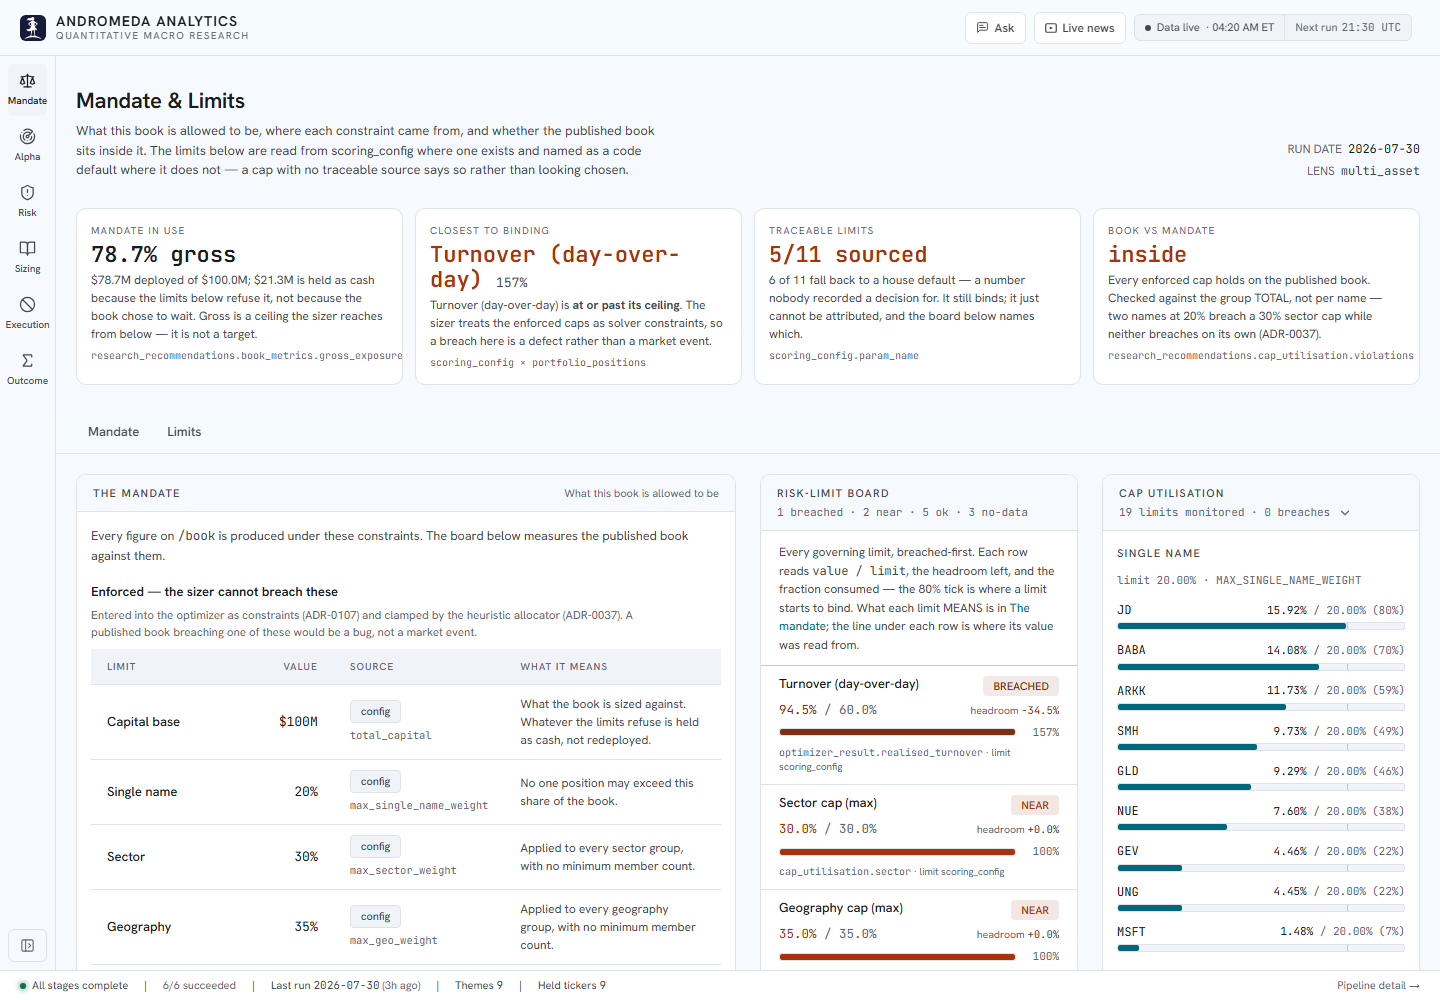
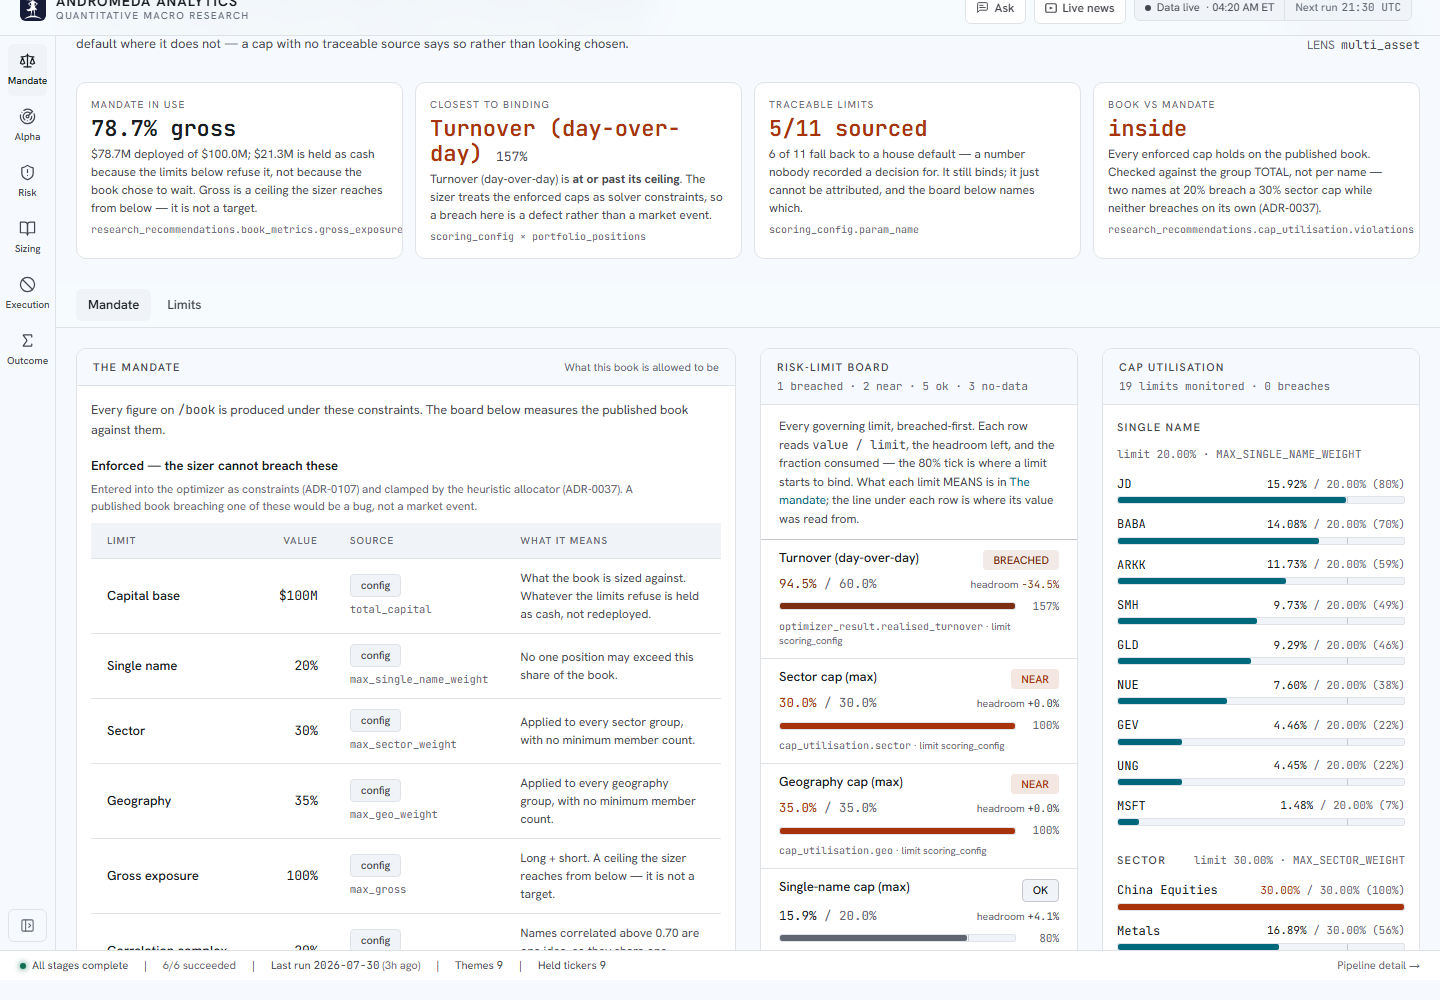
refactor(ui): cap utilisation is a card, not a disclosure
The <details> was right when this card was fourth down a long scrolling page —
closing it moved ~1000px up. After ADR-0179/0180/0181/0182 it owns a whole
column of a row whose height is set by the two cards beside it, so collapsing
it returns nothing: the row is 1588px tall whether this card is 58px or 1131px.

A control that hides content and frees no space also needed a whole apparatus
to avoid looking broken while doing it — open:h-full so a collapsed card would
not stretch into a 1600px empty box, open:flex/open:flex-col, and three
[&::details-content] variants that existed only because Chrome wraps a
<details>'s content in a UA box a flex column cannot reach through. All of it
is deleted with the disclosure. A <section> flexes its own children, so the
closing note pins to the baseline with no browser-specific rule.

design-goals.md goal 7 is narrowed a second time, as a test rather than an
exemption for one component: a disclosure that buys no space is not a
disclosure — ask what closing it gives back.

Verified at 1440: three cards 474 → 2062px, SECTION all three, zero <details>
left on /mandate, closing note at 2047. 975 frontend tests green, tsc clean.

ADR-0183.

diff --git a/frontend/components/risk/CapUtilisation.tsx b/frontend/components/risk/CapUtilisation.tsx
@@ -6,7 +6,6 @@
 
 "use client";
 
-import { DisclosureChevron } from "@/components/DisclosureChevron";
 import {
   CAP_WARN_UTILISATION,
   capBarColor,
@@ -202,47 +201,37 @@ export function CapUtilisation({
     (data?.geo?.length ?? 0);
 
   return (
-    // `open`: the caps are one of the four cards /mandate opens with since it
-    // became a single row, and a card whose whole content is behind a summary bar
-    // spends a quarter of that row on a 58px header. Design goal 7's own 2026-07-30
-    // narrowing is the standing direction here — every card stays visible on
-    // arrival — so this is that rule reaching an existing <details> rather than a
-    // new one being added. The disclosure itself is kept: a reader who wants the
-    // limit board beside it without 19 bars can still close it.
+    // A PLAIN SECTION, not a <details> (owner's direction, ADR-0183).
     //
-    // `open:h-full`, not `h-full`: the mandate row aligns its three cards top AND
-    // bottom (ADR-0181), and this card owns its column again now the risk-metric
-    // tiles have left it (ADR-0182). Gated on `[open]` because a COLLAPSED card
-    // stretched to the row height is a 1600px empty bordered box — the disclosure
-    // would still work and would still look broken.
+    // It was a disclosure, then a disclosure forced `open` by default (ADR-0180),
+    // which is two states where the page only ever wanted one. The argument for
+    // keeping the toggle was that a reader might want the limit board beside it
+    // without nineteen bars — but this card now OWNS the mandate row's last
+    // column, so collapsing it buys no space for anything: the row's height is
+    // set by the two cards beside it and closing this one left a stretched empty
+    // box, which is why it needed an `[open]`-gated `h-full` at all.
     //
-    // The `[&::details-content]` half is not decoration. Chrome wraps a
-    // <details>'s non-summary content in a UA `::details-content` box, so
-    // `flex-col` on the element makes THAT box the flex item and the card body
-    // inside it is not one — measured: the body stopped at 1068px inside a 1546px
-    // slot, and the closing note floated with 400px of blank beneath it. Both
-    // paths are kept: Firefox and Safari have no such box and flex the children
-    // directly, where the rule is simply ignored.
-    <details
-      open
-      className="card mb-6 group open:h-full open:flex open:flex-col open:[&::details-content]:h-full open:[&::details-content]:flex open:[&::details-content]:flex-col"
+    // Deleting the disclosure deletes that whole apparatus: `open:h-full`, the
+    // `open:flex` pair, and the `[&::details-content]` rule that existed only
+    // because Chrome wraps a <details>'s content in a UA box the flex column
+    // cannot reach through. A <section> flexes its own children, so the closing
+    // note pins to the baseline with no browser-specific rule at all.
+    <section
+      className="card mb-6 h-full flex flex-col"
       aria-labelledby="risk-caps-heading"
     >
-      <summary className="card-header cursor-pointer select-none list-none [&::-webkit-details-marker]:hidden">
+      <div className="card-header">
         <h2 id="risk-caps-heading" className="card-title m-0">
           Cap utilisation
         </h2>
-        <span className="flex items-center gap-2">
-          <span className="text-[11px] text-text-tertiary num">
-            {state.status === "ok"
-              ? `${totalRows} limit${totalRows === 1 ? "" : "s"} monitored · ${breaches.length} breach${
-                  breaches.length === 1 ? "" : "es"
-                }`
-              : "Single name · sector · geography"}
-          </span>
-          <DisclosureChevron className="text-text-tertiary" />
+        <span className="text-[11px] text-text-tertiary num">
+          {state.status === "ok"
+            ? `${totalRows} limit${totalRows === 1 ? "" : "s"} monitored · ${breaches.length} breach${
+                breaches.length === 1 ? "" : "es"
+              }`
+            : "Single name · sector · geography"}
         </span>
-      </summary>
+      </div>
 
       {state.status === "loading" ? (
         <SectionSkeleton height={240} />
@@ -294,6 +283,6 @@ export function CapUtilisation({
           </p>
         </div>
       )}
-    </details>
+    </section>
   );
 }

diff --git a/docs/adrs/README.md b/docs/adrs/README.md
@@ -201,6 +201,8 @@ One ADR per file. Immutable once accepted — superseded ADRs are marked `supers
 
 | [0182](0182-four-of-five-were-already-on-the-page.md) | Four of the five were already on the page -- the owner asked why the risk-metric tiles were on `/mandate` at all. They were never chosen for it: before the phase split `/risk` was one page and `RiskMetricsGrid` sat inside `<section id="limits">`, ADR-0170 cut that page by reader question and mapped `limits` -> mandate, so the grid travelled with the section it happened to live in; ADR-0181 moving it into the row's last column made the question visible rather than creating it. Read off the LIVE page at 1440 on the 2026-07-30 run: VaR `NO DATA - / 6.0%` on the board vs `Unavailable -` on the tile; CVaR `NO DATA - / 9.0%` vs `Unavailable -`; Beta `NO DATA - / 0.50` vs `Unavailable -`; HHI `1,403 / 2,000, headroom +597, OK` vs `1403 up +5, Exact`; Sharpe -- no mandate limit exists -- vs `Unavailable`. Four of five are the same `portfolio_risk` columns the board already reports AGAINST THEIR LIMIT AND HEADROOM, which on a page asking "is the book inside its mandate" is strictly the more useful form, and three of those four were stating the same ABSENCE twice, two cards apart, in two different wordings; the fifth, Sharpe, is a realised risk-adjusted return with no mandate limit at all -- phase 6's question, not phase 1's. Decision: the grid moves to `/attribution`, at the top of the `realised` section. `/risk` was rejected as a destination ON ITS OWN COPY -- its lede promises "every figure here is EX-ANTE, a pure function of the recommended weights and a 252-day covariance estimate", and all five are computed off the realised return series, so landing them there would have made that sentence false. `/attribution` is the backward-looking surface, the delta-vs-yesterday chips are exactly its claim, and the phase already opens with an answer card ("7 sessions -- 11 statistics are still withheld for want of history; var_95 unlocks at 30") that is about these tiles specifically, so they now sit directly beneath the card explaining their own absence. NO change to `RISK_SECTION_PHASE`: the grid moved INTO an existing section rather than becoming one, so the nav-section parity the split is tested on is untouched; the attribution lede gains a clause naming what the phase opens with. Two follow-ons the move forced: `RiskMetricsGrid` DROPS the `xl:grid-cols-1` step ADR-0181 added (it existed for a 318px column that no longer exists, and a class kept "in case" is a class nobody can delete later) with `mb-6` returning now that no parent stack owns its spacing; and `CapUtilisation` takes `open:h-full` BACK, owning the last column again so it is what meets the other two cards' bottom edge -- including the `[&::details-content]` rule ADR-0181 recorded but did not need, which is now what pins its closing note to the baseline. Measured at 1440: `/mandate`'s three cards run **474 -> 2062px**, one top and one bottom edge, page 2483 -> **2166px**; on `/attribution` the strip renders five across at 259px per tile, 175px tall, above the track record; collapsing the caps card still returns it to 58px; no overflow, no console errors, 975 frontend tests green, `tsc` clean. Costs: `/attribution` inherits duplication it does not have yet (`beta` also appears in `BenchmarkComparison` further down that page, VaR/CVaR in `VarMethods` on `/risk`) -- this removes one duplication and does not audit the rest; the provenance rendering MOVED rather than spread, so these tiles remain the only place `numeric_derivations` (method id, freshness, uncertainty band) reaches a reader for these five figures while the limit board reports the same numbers with only a source line, an asymmetry left standing; `/mandate` lost its only Sharpe, intended (a mandate is not a performance statement) but a figure a reader of that page could previously see; and the last column is a single disclosure again, stretched to 1588px against ~1131px of content. Rejected: leaving it (the duplication is on one screen and includes the same absence stated twice); retiring the grid entirely and rehoming only Sharpe (cheapest, and it would have deleted the only surface rendering derivation provenance for these five); moving it to `/risk` (contradicted by that page's own lede, which is a promise about every figure on it) | accepted | 2026-07-30 |
 
+| [0183](0183-a-disclosure-that-buys-no-space.md) | A disclosure that buys no space -- the owner asked for `Cap utilisation` to stop being collapsible. It had been a `<details>` since it was written, correct while it was the fourth card down a long scrolling page where closing it moved everything below up by ~1000px; three changes on 2026-07-30 removed that property one step at a time -- ADR-0179 put it in a quarter column of a single row, ADR-0180 forced it `open` by default because a card whose whole content sits behind a summary bar was spending a quarter of that row on 58px, and ADR-0181/0182 made it the sole occupant of that column in a row whose height is set by the two cards BESIDE it. By the end, collapsing it returned nothing: the row is 1588px tall whether this card is 58px or 1131px. So the disclosure had become a control that hides content and frees no space -- and it needed a whole apparatus to avoid LOOKING broken while doing it: `open:h-full` so a collapsed card would not stretch into a 1600px empty box, `open:flex`/`open:flex-col`, and an `[&::details-content]` rule that existed only because Chrome wraps a `<details>`'s non-summary content in a UA box a flex column cannot reach through. Decision: it becomes a plain `<section className="card">` with a normal card header -- `<summary>` -> `<div className="card-header">`, `DisclosureChevron` and its import gone, the count line (`19 limits monitored - 0 breaches`) unmoved, the header now identical in form to the two cards beside it. Design goal 7 says to collapse optional detail rather than delete it and its own 2026-07-30 narrowing said "existing `<details>` are untouched", so this argues that goal down first, as that file requires -- narrowed AGAIN, as a TEST rather than an exception for one component: **a disclosure that buys no space is not a disclosure**; ask what closing it gives back, and where the answer is "a screenful" the goal is unchanged and every other `<details>` in the tree stays. Verified at 1440: the three cards run **474 -> 2062px**, `SECTION` all three, **zero `<details>` remain on /mandate**, and the closing note pins to 2047 (15px above the card edge, the card-body's own padding) with NO browser-specific rule involved, because a `<section>` flexes its own children; no overflow, no console errors, 975 frontend tests green, `tsc` clean. What this DELETES is the interesting part -- `open:h-full`, `open:flex`, `open:flex-col` and all three `[&::details-content]` variants, every one of which existed to make a collapsible card behave inside a stretched grid cell; removing the collapse removed the reason for the whole class of workaround, including the Chrome quirk ADR-0181 recorded, which no longer applies anywhere in this tree. Costs: 19 cap bars are now unconditionally on screen, ~1100px a reader cannot fold away -- free today since the row is as tall as the mandate panel regardless, but not if this card ever becomes the tallest, at which point the answer is to SHORTEN it rather than hide it; the rule is now conditional and conditional rules are harder to apply ("does closing it free space?" needs a judgement about layout that "collapse optional detail" did not), written into `docs/design-goals.md` as a question to ask rather than a list of exempt components so it applies to a card that does not exist yet; and a reader who wanted the board beside a quiet column loses that, which ADR-0180 argued for and which did work -- it just cost more than it returned once the card owned its column. Rejected: keeping the `<details>` and dropping only the `open` gating (that IS the state ADR-0180 shipped, and what produced the stretched-empty-box problem the `open:` variants paper over); keeping it collapsible and letting a collapsed card sit short at the top of a stretched cell (honest, and it breaks the one-baseline alignment asked for two messages earlier); making every card on the row collapsible for symmetry (three toggles that each free nothing) | accepted | 2026-07-30 |
+
 ## When to write an ADR
 
 - Any architectural choice you'd struggle to explain six months from now

diff --git a/docs/adrs/0183-a-disclosure-that-buys-no-space.md b/docs/adrs/0183-a-disclosure-that-buys-no-space.md
@@ -1,0 +1,92 @@
+---
+status: accepted
+date: 2026-07-30
+deciders: platform owner
+---
+
+# ADR-0183 — A disclosure that buys no space
+
+## Context
+
+The owner asked for `Cap utilisation` to stop being collapsible.
+
+It had been a `<details>` since it was written, which was correct while it was
+the fourth card down a long scrolling page: closing it moved everything below it
+up by ~1000px. Three changes on 2026-07-30 removed that property one step at a
+time:
+
+- **ADR-0179** put it in a quarter column of a single row.
+- **ADR-0180** forced it `open` by default, because a card whose whole content
+  sits behind a summary bar was spending a quarter of that row on 58px.
+- **ADR-0181/0182** made it the sole occupant of that column, in a row whose
+  height is set by the two cards beside it.
+
+By the end of that sequence, collapsing it returned nothing. The row is 1588px
+tall whether this card is 58px or 1131px, because `The mandate` and the
+`Risk-limit board` are what set the height. So the disclosure had become a
+control that hides content and frees no space — and it needed a whole apparatus
+to avoid looking broken while doing it: `open:h-full` so a collapsed card
+wouldn't stretch into a 1600px empty box, `open:flex`/`open:flex-col`, and an
+`[&::details-content]` rule that existed only because Chrome wraps a
+`<details>`'s non-summary content in a UA box a flex column cannot reach
+through.
+
+Design goal 7 says to collapse optional detail rather than delete it, and its
+2026-07-30 narrowing explicitly said *"existing `<details>` are untouched"*. This
+removes one, so per that file's own rule it needs an ADR to argue the goal down
+first.
+
+## Decision
+
+**`CapUtilisation` becomes a plain `<section className="card">` with a normal
+card header.** The `<summary>` becomes a `<div className="card-header">`, the
+`DisclosureChevron` and its import go, and the count line (`19 limits monitored ·
+0 breaches`) stays exactly where it was — the header is now identical in form to
+the two cards beside it.
+
+The narrowing to goal 7 is stated as a test rather than as an exception for this
+component: **a disclosure that buys no space is not a disclosure.** Ask what
+closing it gives back. Where the answer is "a screenful", the goal is unchanged
+and every other `<details>` in the tree stays. Where the answer is "nothing,
+because something else sets the height", it is a toggle for its own sake.
+
+## Consequences
+
+Verified at 1440 on the 2026-07-30 run: the three cards run **474 → 2062px**,
+`SECTION` all three, and **zero `<details>` elements remain on `/mandate`**. The
+card's closing note pins to 2047 — 15px above the card's bottom edge, the
+card-body's own padding — with no browser-specific rule involved, because a
+`<section>` flexes its own children. No overflow, no console errors, 975 frontend
+tests green, `tsc --noEmit` clean.
+
+What this deletes is the interesting part: `open:h-full`, `open:flex`,
+`open:flex-col`, and all three `[&::details-content]` variants. Every one of them
+existed to make a collapsible card behave inside a stretched grid cell. Removing
+the collapse removed the reason for the whole class of workaround — including the
+Chrome quirk ADR-0181 recorded, which no longer applies anywhere in this tree.
+
+Costs:
+
+- **19 cap bars are now unconditionally on screen.** That is ~1100px a reader
+  cannot fold away. It costs nothing in page height today (the row is as tall as
+  the mandate panel regardless) but it will if this card ever becomes the tallest
+  in the row — at which point the answer is to shorten it, not to hide it.
+- **The rule is now conditional, and conditional rules are harder to apply.**
+  "Does closing it free space?" needs a judgement about layout that "collapse
+  optional detail" did not. Written into `docs/design-goals.md` as a question to
+  ask rather than a list of exempt components, so it can be applied to a card
+  that does not exist yet.
+- **A reader who wanted the board beside a quiet column loses that.** It was
+  argued for in ADR-0180 and did work; it just cost more than it returned once
+  the card owned its column.
+
+Rejected:
+
+- **Keep the `<details>` and drop only the `open` attribute's gating.** That is
+  the state ADR-0180 shipped, and it is what produced the stretched-empty-box
+  problem the `open:` variants exist to paper over.
+- **Keep it collapsible and let a collapsed card sit short at the top of a
+  stretched cell.** Honest, and it breaks the one-baseline alignment the owner
+  asked for two messages earlier.
+- **Make every card on the row collapsible for symmetry.** Three toggles that
+  each free nothing.

diff --git a/PROGRESS.md b/PROGRESS.md
@@ -34,6 +34,7 @@ docs/
 
 | Date | Entry |
 |---|---|
+| 2026-07-30 | **Cap utilisation is no longer collapsible, which deleted every workaround its disclosure needed.** [ADR-0183](docs/adrs/0183-a-disclosure-that-buys-no-space.md). Owner's direction. The `<details>` was right when the card was fourth down a scrolling page; after ADR-0179/0180/0181/0182 it owned a whole column of a row whose height is set by the two cards beside it, so collapsing it returned nothing while needing `open:h-full`, `open:flex`, `open:flex-col` and three `[&::details-content]` variants just to not look broken. Now a plain `<section className="card">` with a normal header; all of that is gone, and the closing note pins to the baseline natively because a section flexes its own children. `docs/design-goals.md` goal 7 is narrowed a second time, as a test rather than an exemption: a disclosure that buys no space is not a disclosure -- ask what closing it gives back. Verified at 1440: three cards 474->2062px, zero `<details>` left on /mandate, 975 tests green. |
 | 2026-07-30 | **The risk-metric tiles left /mandate for /attribution -- four of the five were already on the mandate page, stated better.** [ADR-0182](docs/adrs/0182-four-of-five-were-already-on-the-page.md). The owner asked why they were there; the answer is that nobody put them there -- `RiskMetricsGrid` sat inside `<section id="limits">` before the phase split, and `limits` went to mandate. Read off the live page: VaR, CVaR, beta and HHI are the same `portfolio_risk` columns the limit board reports AGAINST THEIR LIMIT two cards away, and three of them were stating the same absence twice in two wordings; only Sharpe was unique, and it has no mandate limit. `/risk` was rejected on its own lede ("every figure here is EX-ANTE") since all five are computed off the realised return series, so they land at the top of `/attribution`'s realised section -- directly under the answer card that explains why they are withheld. No `RISK_SECTION_PHASE` change (moved into an existing section). Follow-ons: the `xl:grid-cols-1` step added for the 318px column is deleted rather than kept, and `CapUtilisation` takes `open:h-full` back to hold the mandate row's bottom edge alone. Measured at 1440: /mandate's three cards 474->2062px, page 2483->2166px; 975 tests green. |
 | 2026-07-30 | **/mandate's three columns now share one bottom edge, and the five risk-metric tiles moved into the last one, stacked under cap utilisation.** [ADR-0181](docs/adrs/0181-three-columns-one-baseline.md). Owner's direction, two parts, where the second settles what the first can mean: with a card AND five tiles in the last column, the COLUMN aligns, not the caps card. `items-start` comes off the row; each card carries its own `h-full` (a stretched wrapper with a content-height card inside aligns nothing -- the first attempt's actual result); `MandatePanel` and `RiskLimitBoard` pin their closing note at `mt-auto` so the slack opens above the footer; `CapUtilisation` deliberately has no `h-full` since it shares its column; `RiskMetricsGrid` is now `grid-cols-2 md:grid-cols-5 xl:grid-cols-1`, one DOM at every width. Measured at 1440: mandate and board both 474->2379px, last column 474->1604 (caps) ->2379 (fifth tile); 975 tests green. Also recorded there: Chrome wraps `<details>` content in a UA `::details-content` box, so `flex-col` on the element does not make an inner child a flex item. |
 | 2026-07-30 | **Cap utilisation opens by default, and the limit board got 32% shorter by moving its prose to the card that already carries it.** [ADR-0180](docs/adrs/0180-the-note-is-beside-the-board-the-source-is-not.md). Two same-day follow-ups to ADR-0179's mandate row. `CapUtilisation` is now `<details open>` -- as one of four cards in one row it was spending a quarter column on a 58px summary bar. The board's height was measured, not guessed: ~178px per row, of which ~55px was pure padding/margin and 33-66px was the prose `note` -- content `MandatePanel` renders 24px to the left for every one of these limits. So `LimitDef` gains `source` (the `table.column` the VALUE is read from, split out of the prose and rendered under every row beside where the LIMIT came from), the prose moves to the row's `title` with the intro linking to `#mandate`, `value / limit` and the headroom go on one line, and the spacing tightened. Measured at 1440: board 2250->1531px, caps 58->1131px open, page 3026->2381px -- 645px shorter despite a card opening. Known cost: the board no longer explains itself in isolation, and `title` is hover-only, so the traceability path is the source line that renders, not the tooltip. |

diff --git a/docs/design-goals.md b/docs/design-goals.md
@@ -175,6 +175,15 @@ single fact they came for. Two consequences:
   is too long is **first check whether its content belongs there**; a disclosure
   is what you reach for when it does. Existing `<details>` are untouched — this
   narrows the rule, it does not reverse it.
+
+  **NARROWED AGAIN, later the same day ([ADR-0183](adrs/0183-a-disclosure-that-buys-no-space.md)):
+  one existing `<details>` WAS removed** — `CapUtilisation` on `/mandate` is now
+  a plain card. The exception is bounded and testable: **a disclosure that buys
+  no space is not a disclosure.** That card owns a whole column of a
+  three-column row whose height is set by the two cards beside it, so collapsing
+  it freed nothing and left a stretched empty box. Everywhere a collapsed block
+  actually shortens the page — every other `<details>` in the tree — the rule
+  above is unchanged. Ask what closing it gives back before you reach for one.
 - **Never trap a page in an inner scroller.** Viewport-locked shells
   (`h-screen` + `overflow-y-auto` on the content) photograph well and break
   Ctrl+F, deep links, and long candidate tables. Full-page scroll always wins.
